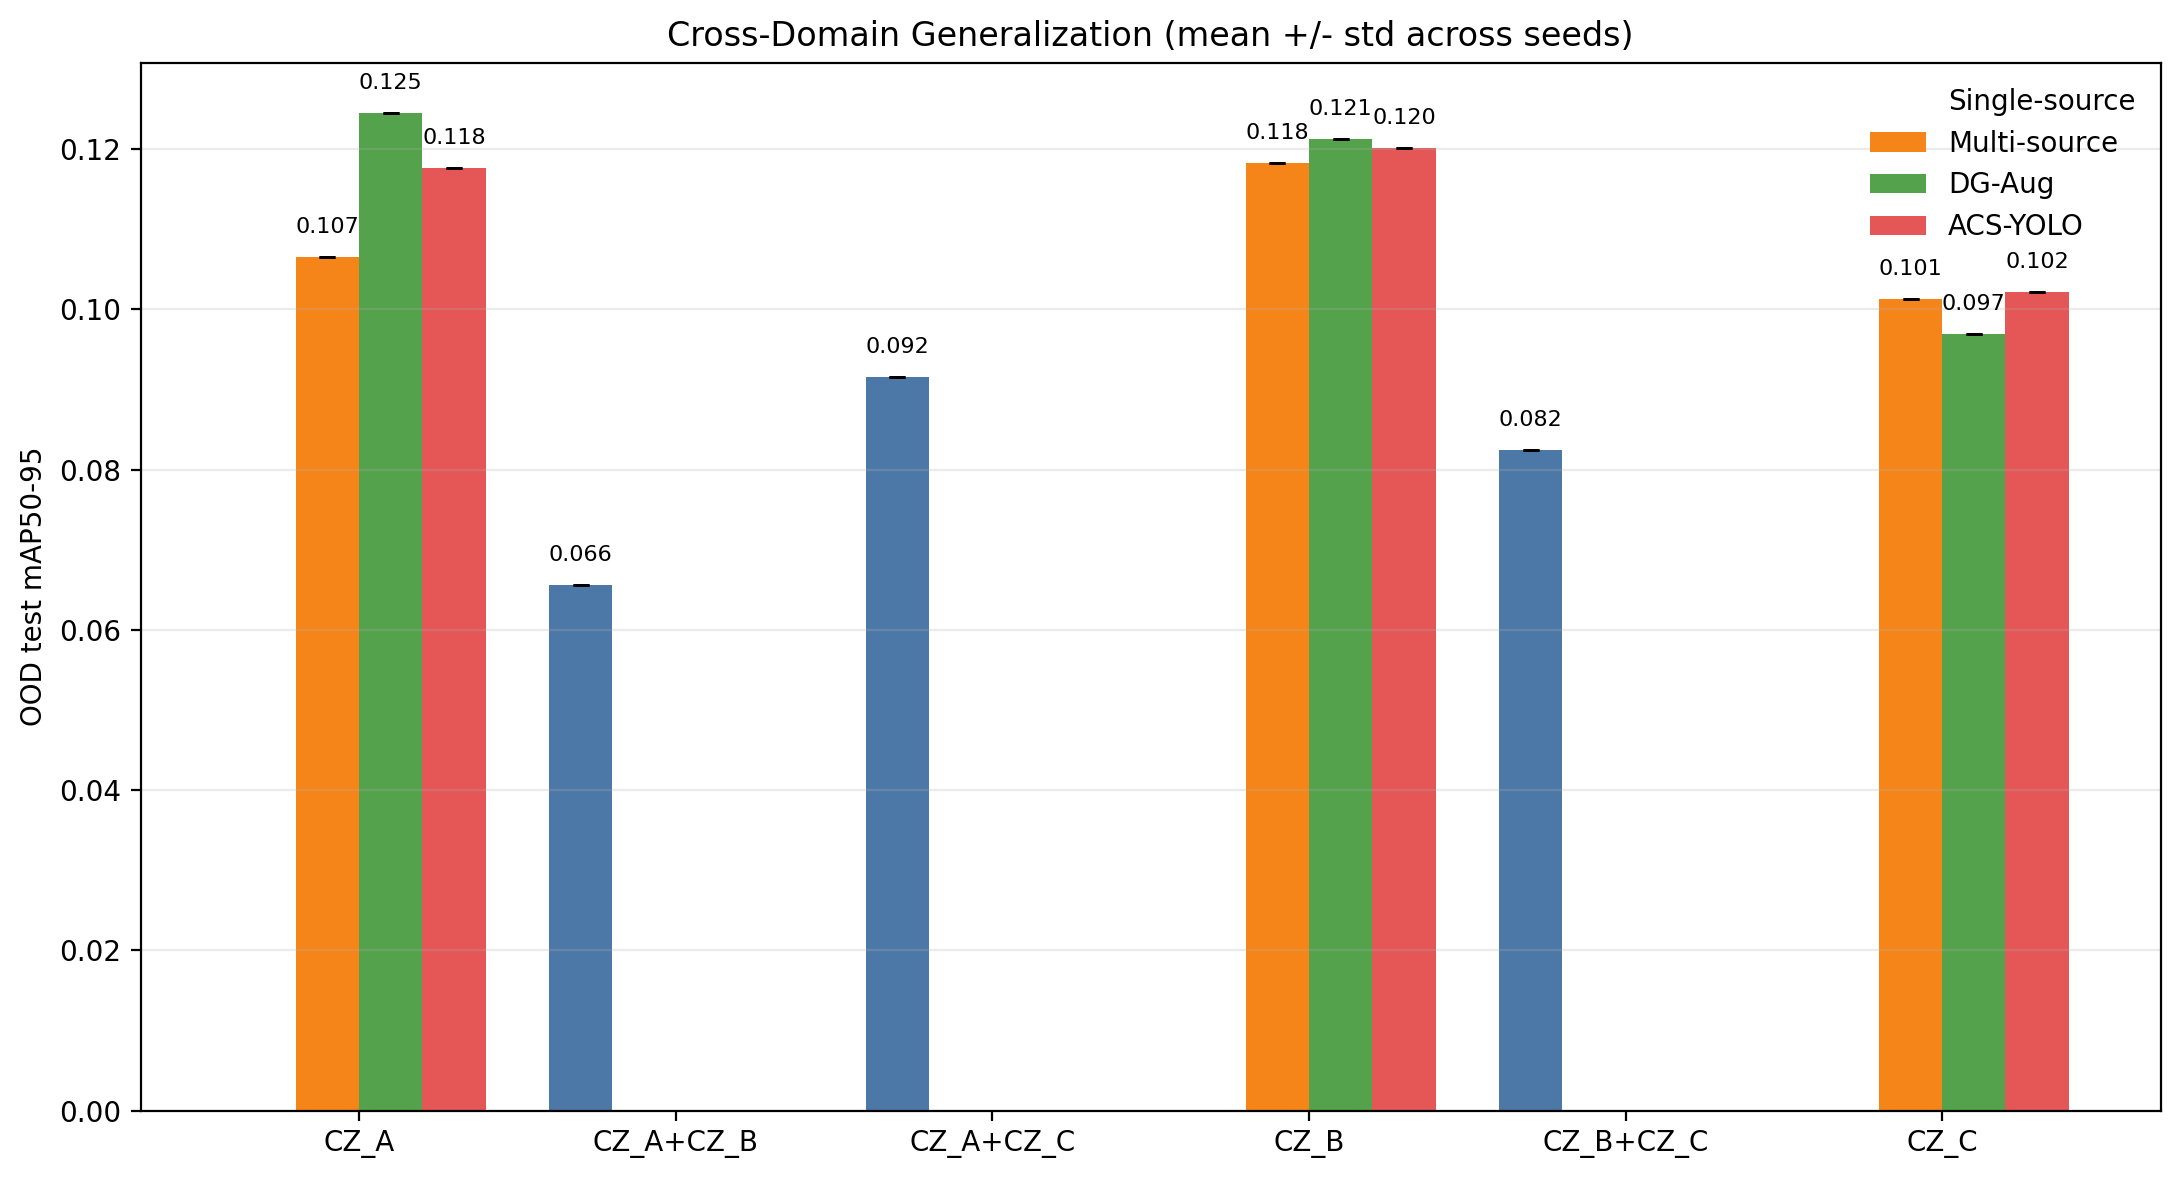
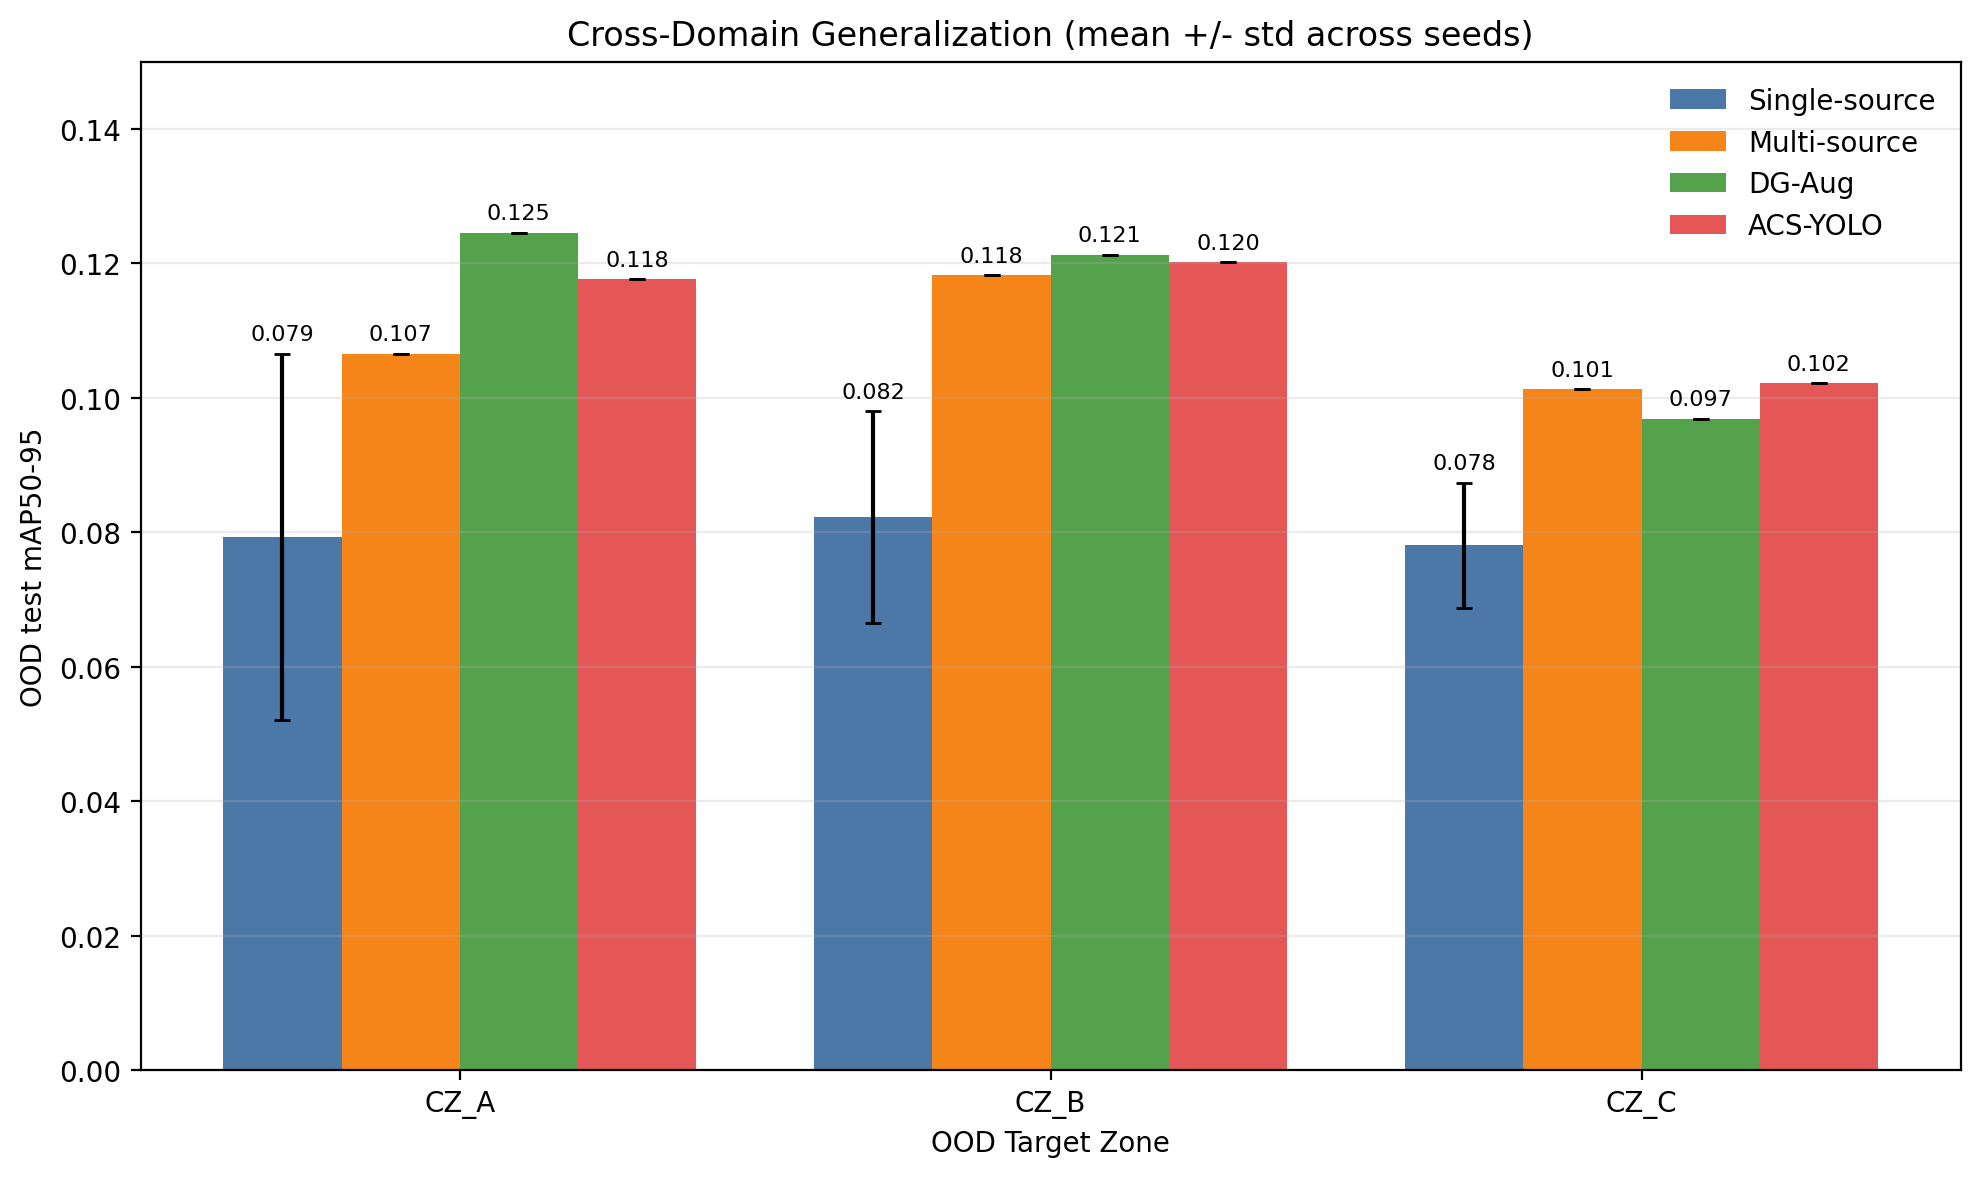
yes

diff --git a/main.tex b/main.tex
@@ -232,11 +232,9 @@ where $b_i \in \mathbb{R}^4$ denotes the predicted bounding box coordinates, $c_
 
 The YOLOv8n variant contains approximately 3.2 million parameters and requires 8.7 GFLORs per forward pass at $640\times640$ resolution, making it well-suited for large-scale satellite imagery experiments where both accuracy and throughput are important.
 
-\note{Chèn sơ đồ kiến trúc YOLOv8 ở đây (backbone CSPDarknet $\to$ PAN neck $\to$ Detect head). Có thể vẽ bằng draw.io hoặc dùng hình từ tài liệu Ultralytics.}
-
 \begin{figure}[H]
 \centering
-% \includegraphics[width=0.92\linewidth]{figures/yolov8_architecture.png}
+\includegraphics[width=0.92\linewidth]{figures/yolov8_architecture.png}
 \caption{Architecture of the YOLOv8n detector. The CSPDarknet53 backbone extracts multi-scale feature maps at strides 8, 16, and 32. The PAN neck fuses these features through top-down and bottom-up pathways. The decoupled head independently predicts classification and regression outputs at each scale.}
 \label{fig:model_architecture}
 \end{figure}
@@ -638,7 +636,12 @@ The qualitative analysis reveals that single-source models tend to produce abund
 
 \subsection{Error Analysis}
 
-\note{Chèn confusion matrix hoặc ảnh failure cases ở đây. Có thể lấy confusion matrix từ thư mục runs/exp*/confusion\_matrix.png.}
+\begin{figure}[H]
+\centering
+\includegraphics[width=0.75\linewidth]{results/confusion_matrices/acsyolo_on_CZB/confusion_matrix_normalized.png}
+\caption{Normalized confusion matrix of the ACS-YOLO model evaluated on the CZ\_B (temperate zone) OOD test set. Small objects (Shed, Cargo Truck) and Vehicle Lot suffer from high background confusion (FN rate of 49\%, 53\%, and 91\% respectively), while Shipping Containers show moderate confusion with Buildings (3\%).}
+\label{fig:confusion_matrix}
+\end{figure}
 
 Failure cases predominantly occur in three scenarios. First, small objects such as Cargo Truck and Shed are frequently missed across all methods because their pixel footprint at $640\times640$ resolution is often below the detection threshold. Second, the Vehicle Lot class suffers from high intra-class variability---parking areas in temperate zones appear visually distinct from those in arid regions, making cross-domain recognition inherently difficult. Third, Shipping Container detections are occasionally confused with Building edges or rooftop segments, particularly in high-density urban areas within CZ\_B.
 
@@ -680,12 +683,10 @@ CZ\_C* & 28.78 & 19.21 &  6.94 &  7.28 & 6.44 & 2.85 & 3.36 & 2.64 \\
 
 Building and Small Car consistently achieve the highest mAP@50-95 across all zones, exceeding 19\% even in OOD settings. These classes benefit from large sample sizes and relatively stable visual appearance across climate zones. In contrast, Vehicle Lot, Shed, and Cargo Truck remain below 7\% in most OOD configurations, suggesting that their cross-domain appearance variability exceeds what current augmentation strategies can bridge.
 
-\note{Chèn biểu đồ visualization từ \texttt{scripts/visualize\_official\_results.py} ở đây (ood\_map\_by\_zone.png, id\_ood\_tradeoff.png). Chạy lệnh: \texttt{python scripts/visualize\_official\_results.py}}
-
 \begin{figure}[H]
 \centering
-% \includegraphics[width=0.48\linewidth]{results/official/plots/ood_map_by_zone.png}
-% \includegraphics[width=0.48\linewidth]{results/official/plots/id_ood_tradeoff.png}
+\includegraphics[width=0.48\linewidth]{results/official/plots/ood_map_by_zone.png}
+\includegraphics[width=0.48\linewidth]{results/official/plots/id_ood_tradeoff.png}
 \caption{Left: OOD mAP@50-95 by zone and method. Right: ID--OOD trade-off scatter plot showing that DG-Aug and ACS-YOLO achieve better OOD performance without significantly sacrificing ID accuracy.}
 \label{fig:official_plots}
 \end{figure}

diff --git a/scripts/visualize_official_results.py b/scripts/visualize_official_results.py
@@ -44,20 +44,38 @@ def load_results(input_dir: Path) -> pd.DataFrame:
 
 
 def save_ood_chart(frame: pd.DataFrame, output: Path) -> None:
+    # Extract individual target zone OOD results for all runs
+    rows = []
+    for _, row in frame.iterrows():
+        method = row['method']
+        seed = row['seed']
+        ood_domains = str(row['ood_domains']).split('+')
+        for zone in ood_domains:
+            col_name = f"{zone}_mAP50_95"
+            if col_name in frame.columns:
+                rows.append({
+                    'method': method,
+                    'target_zone': zone,
+                    'mAP': float(row[col_name]),
+                    'seed': seed
+                })
+    df_ood = pd.DataFrame(rows)
+    
     grouped = (
-        frame.groupby(["method", "ood_domains"])["OOD_mAP50_95"]
+        df_ood.groupby(["method", "target_zone"])["mAP"]
         .agg(["mean", "std"])
         .fillna(0.0)
         .reset_index()
     )
-    zones = sorted(grouped["ood_domains"].unique())
+    
+    zones = ["CZ_A", "CZ_B", "CZ_C"]
     methods = [method for method in METHOD_COLORS if method in set(grouped["method"])]
     x = np.arange(len(zones))
     width = 0.8 / max(len(methods), 1)
 
-    fig, ax = plt.subplots(figsize=(11, 6))
+    fig, ax = plt.subplots(figsize=(10, 6))
     for index, method in enumerate(methods):
-        subset = grouped[grouped["method"] == method].set_index("ood_domains")
+        subset = grouped[grouped["method"] == method].set_index("target_zone")
         means = np.array(
             [subset.loc[zone, "mean"] if zone in subset.index else np.nan for zone in zones]
         )
@@ -74,20 +92,27 @@ def save_ood_chart(frame: pd.DataFrame, output: Path) -> None:
             label=method,
             color=METHOD_COLORS[method],
         )
-        for bar, value in zip(bars, means):
+        for bar, value, std in zip(bars, means, stds):
             if np.isnan(value):
                 bar.set_alpha(0)
             else:
+                y_pos = value + std + 0.002
                 ax.text(
                     bar.get_x() + bar.get_width() / 2,
-                    value + 0.003,
+                    y_pos,
                     f"{value:.3f}",
                     ha="center",
                     fontsize=8,
                 )
 
+    max_y = (grouped["mean"] + grouped["std"]).max()
+    if pd.isna(max_y):
+        max_y = 0.15
+    ax.set_ylim(0, max(max_y * 1.15, 0.15))
+
     ax.set_xticks(x)
     ax.set_xticklabels(zones)
+    ax.set_xlabel("OOD Target Zone")
     ax.set_ylabel("OOD test mAP50-95")
     ax.set_title("Cross-Domain Generalization (mean +/- std across seeds)")
     ax.grid(axis="y", alpha=0.25)

diff --git a/scripts/generate_confusion_matrix.py b/scripts/generate_confusion_matrix.py
@@ -1,0 +1,55 @@
+"""Generate confusion matrices for a given YOLO model and target zone."""
+import argparse
+import tempfile
+import yaml
+from pathlib import Path
+from ultralytics import YOLO
+
+def main():
+    parser = argparse.ArgumentParser()
+    parser.add_argument("--weights", required=True, help="Path to best.pt weights")
+    parser.add_argument("--zone", required=True, choices=["CZ_A", "CZ_B", "CZ_C"], help="Target climate zone")
+    parser.add_argument("--data_dir", default="data", help="Directory of dataset")
+    parser.add_argument("--project", default="results/confusion_matrices", help="Output project directory")
+    parser.add_argument("--name", required=True, help="Name of directory for this run")
+    parser.add_argument("--device", default="", help="CPU or GPU device")
+    args = parser.parse_args()
+
+    data_dir = Path(args.data_dir).resolve()
+    zone = args.zone
+    
+    # Create temp YAML config
+    tmp_yaml = Path(tempfile.gettempdir()) / f"eval_cm_{zone}.yaml"
+    zone_data = {
+        "path": str(data_dir.parent),  # project root
+        "train": f"data/{zone}/images/test",  # placeholder to satisfy validation check
+        "val":   f"data/{zone}/images/test",
+        "nc":    8,
+        "names": [
+            "Building", "Small Car", "Truck", "Bus",
+            "Cargo Truck", "Shipping Container", "Vehicle Lot", "Shed"
+        ]
+    }
+    
+    with open(tmp_yaml, "w") as f:
+        yaml.dump(zone_data, f)
+        
+    print(f"Loading model from {args.weights}...")
+    model = YOLO(args.weights)
+    
+    print(f"Running validation on {zone} to compute confusion matrix...")
+    model.val(
+        data=str(tmp_yaml),
+        imgsz=640,
+        batch=16,
+        device=args.device,
+        project=str(Path(args.project).resolve()),
+        name=args.name,
+        plots=True,      # This ensures confusion_matrix.png is generated
+        save_json=False,
+        verbose=True
+    )
+    print(f"✓ Confusion matrix saved to: {Path(args.project) / args.name}")
+
+if __name__ == "__main__":
+    main()

diff --git a/scripts/visualize_bbox.py b/scripts/visualize_bbox.py
@@ -272,6 +272,7 @@ def save_legend(out_path: Path):
 # ──────────────────────────── main ──────────────────────────────────────────
 
 def main():
+    random.seed(42)
     parser = argparse.ArgumentParser()
     parser.add_argument("--mode", choices=["single", "grid"],
                         default="single")
